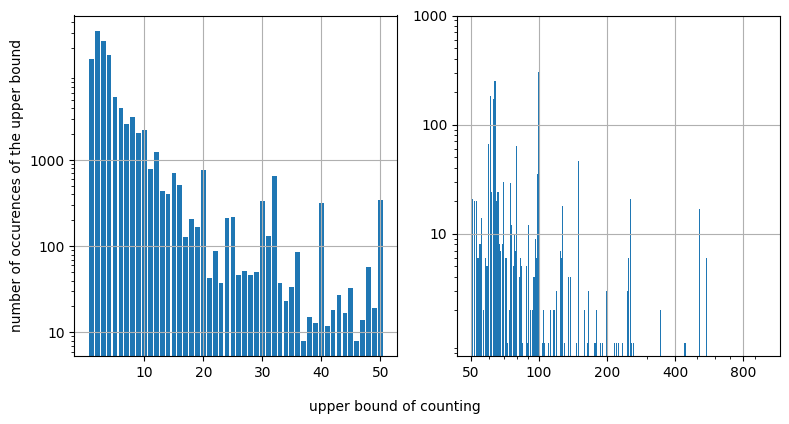
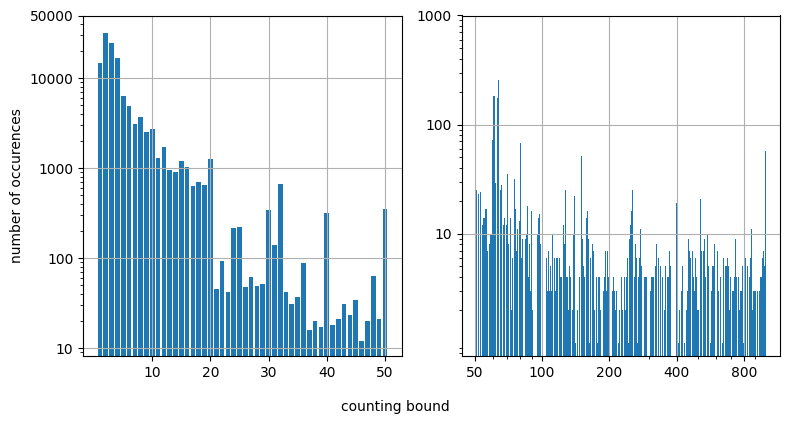
add some experiment results

diff --git a/2024-5-13/sections/implementation.tex b/2024-5-13/sections/implementation.tex
@@ -1,9 +1,10 @@
 %!TEX root = ../main.tex
 
-We implemented the algorithm in Section~\ref{sec:algorithm} on top of OSTRICH, resulted to a string solver called $\ostrichrecl$. 
+We implemented the algorithm in Section~\ref{sec:algorithm} and Section~\ref{sec:heuristic} on top of OSTRICH, resulted to a string solver called $\ostrichrecl$. 
 %
-In this section, we evaluate the performance of $\ostrichrecl$ on two benchmark suites, that is, RegCoL and AutomatArk. In the sequel, we first describe the two benchmark suites as well as the experiment setup. Then we present the experiment results. 
-We do experiments to compare the performance of $\ostrichrecl$ with the state-of-the-art string solvers. Moreover, in order to know whether $\ostrichrecl$ is good at solving string constraints with large counting and length bounds, we extract 1,969 instances with large bounds out of the two benchmark suites, and compare the performance of $\ostrichrecl$ with the other solvers on these instances. Finally, we empirically justify the technical choices made in the decision procedure of Section~\ref{subsec:cefadec} by comparing $\ostrichrecl$ with the following two variants of $\ostrichrecl$: $\ostrichrecl_{\rm - ASR}$ and $\ostrichrecl_{\rm NUXMV}$, where $\ostrichrecl_{\rm - ASR}$ and $\ostrichrecl_{\rm NUXMV}$ are obtained from $\ostrichrecl$ by removing the automata size-reduction technique (i.e. Step 2 in Section~\ref{subsec:cefadec}) and using the nuXmv model checker to solve the nonemptiness of $\cefadec$ respectively. 
+In this section, we evaluate the performance of $\ostrichrecl$ on three benchmark suites, that is, RegCoL, AutomatArk, and ComplexCounting. In the sequel, we first describe the three benchmark suites as well as the experiment setup. Then we present the experiment results. We evaluate the performance and correctness of our solver against the state-of-the-art string constraint solvers, including CVC5 \cite{cvc5}, Z3seq \cite{z3seq}, Z3str3 \cite{Z3-str3}, Z3str3RE \cite{BD+23}, and OSTRICH \cite{CHL+19}. We also compare $\ostrichrecl$ with two variants of it, that is, $\ostrichrecl_{\rm -ASR}$ and $\ostrichrecl_{\rm NUXMV}$, to justify the technical choices made in the decision procedure of Section~\ref{subsec:cefadec}.
+
+% We do experiments to compare the performance of $\ostrichrecl$ with the state-of-the-art string solvers. Moreover, in order to know whether $\ostrichrecl$ is good at solving string constraints with large counting and length, we extract \denghang{todo} instances with large bounds out of , and compare the performance of $\ostrichrecl$ with the other solvers on these instances. Finally, we empirically justify the technical choices made in the decision procedure of Section~\ref{subsec:cefadec} by comparing $\ostrichrecl$ with the following two variants of $\ostrichrecl$: $\ostrichrecl_{\rm - ASR}$ and $\ostrichrecl_{\rm NUXMV}$, where $\ostrichrecl_{\rm - ASR}$ and $\ostrichrecl_{\rm NUXMV}$ are obtained from $\ostrichrecl$ by removing the automata size-reduction technique (i.e. Step 2 in Section~\ref{subsec:cefadec}) and using the nuXmv model checker to solve the nonemptiness of $\cefadec$ respectively. 
  
 %including the results for an overall evaluation as well as the results on the benchmark instances with large bounds. Moreover, we do experiments to show the effectiveness of the automata size-reduction technique (i.e. Step 2 in Section~\ref{sec:algorithm}) as well as compare $\ostrichrecl$ with the  nuXmv-based approach in \cite{atva2020}.  
 
@@ -18,8 +19,7 @@ We do experiments to compare the performance of $\ostrichrecl$ with the state-of
 
 \subsection{Benchmark suites and experiment setup}\label{sec:bench}
 
-Our experiments utilize two benchmark suites, namely, \emph{RegCoL} and \emph{AutomatArk}. Other industrial benchmark suites are not utilized because they contain no counting operators. There are 48,843 instances in total, and all benchmark instances are in the SMTLIB2 format.
-Moreover, it turns out that only 5\% of regexes among the 48,843 instances are non-register-representable (see Section~\ref{subsec:regex2cefa}).
+Our experiments utilize two benchmark suites, namely, \emph{RegCoL} and \emph{AutomatArk}. Other industrial benchmark suites are not utilized because they contain no counting operators. There are \denghang{todo} instances in total, and all benchmark instances are in the SMTLIB2 format.
 
 \medskip
 \noindent
@@ -35,10 +35,14 @@ Note that the original AutomatArk benchmark suite \cite{z3str3re} includes 19,97
 
 \medskip
 \noindent
+\emph{ComplexCounting benchmark suite.} This benchmark suite is generated by the extension of \textsc{stringfuzz} \cite{stringfuzz}. We extend the \textsc{stringfuzz} tool with counting operators and generate 1,000 instances in which half of them contain complement on the counting operators and the other half contain nested counting. The length bound is set to $|x| > 50$ for each string variable $x$.
+
+\medskip
+\noindent
 \emph{Distribution of problem instances w.r.t. counting bounds. }
 The distribution of problem instances w.r.t. the counting bounds in RegCoL and AutomatArk suites is shown in Fig~\ref{fig:count_distri}, where the $x$-axis represents the counting bound and the $y$-axis represents the number of problem instances whose maximum counting bound is equal to the value of the $x$-axis. 
 %The upper bound is the number $n$ of regex $e^{\{m,n\}}, e^{\{n,n\}}$ and $e^{\{n,\infty\}}$ (which is equivalent to $e^{\{n,n\}}e^*$). 
-From Fig~\ref{fig:count_distri}, we can see that while most problem instances contain only small bounds, there are still around 2,000  (about 4\%) of them using large counting bounds (i.e. greater than or equal to $50$).
+From Fig~\ref{fig:count_distri}, we can see that while most problem instances contain only small bounds, there are still around 3,000  (about 6\%) of them using large counting bounds (i.e. greater than or equal to $50$).
 %Although most upper bounds are small, about two thousand of them are still greater than 50. 
 
 \medskip
@@ -48,24 +52,11 @@ All experiments are conducted on CentOS Stream release 8 with 4 Intel(R) Xeon(R)
 
 
 %
-\begin{figure}[ht]
-\vspace{-2mm}
-  \centering
-  \begin{subfigure}[t]{0.49\textwidth}
-    \centering\vskip 0pt
-    \includegraphics[width=0.9\textwidth]{counting_distribution.png}  
-    \caption{Distribution of problem instances w.r.t. counting bounds}  
-    \label{fig:count_distri}
-  \end{subfigure}
-  \hfill
-  \begin{subfigure}[t]{0.49\textwidth}
-    \centering\vskip 0pt
-      \import{tables}{table_regcol.tex}
-      \caption{Overall performance evaluation}
-    \label{fig:table_overall_eval}
-  \end{subfigure}
-  \caption{Distribution of counting bounds and performance evaluation}
-\vspace{-7mm}
+\begin{figure}
+  \centering\vskip 0pt
+  \includegraphics[width=0.9\textwidth]{counting_distribution.png}  
+  \caption{Distribution of problem instances w.r.t. counting bounds}  
+  \label{fig:count_distri}
 \end{figure}
 
 \subsection{Performance evaluation}\label{subsec:overall_eval}
@@ -73,53 +64,55 @@ All experiments are conducted on CentOS Stream release 8 with 4 Intel(R) Xeon(R)
 We evaluate the performance of $\ostrichrecl$ against the state-of-the-art string constraint solvers, including CVC5
 \cite{cvc5}, Z3seq \cite{z3seq}, Z3str3
 \cite{Z3-str3}, Z3str3RE \cite{BD+23}, and OSTRICH
-\cite{CHL+19}, on RegCoL and AutomatArk benchmark suites.
-The experiment results can be found in Figure~\ref{fig:table_overall_eval}. Note that we take the results of CVC5 as the ground truth\footnote{Initially,  we used the majority vote of the results of the solvers as the ground truth. Nevertheless, on some problem instances, all the results of the three solvers in the Z3 family are wrong (after manual inspection), thus failing this approach on these instances.}, and the results different from the ground truth are classified as \emph{soundness error}. We can see that $\ostrichrecl$ solves almost all 48,843 instances, except 182 of them, that is, it solves 48,662 instances correctly. The number is 3,908/1,111/12,838/2,306/2,396 more than the number of instances solved by CVC5/Z3str3RE/Z3str3/Z3seq/OSTRICH respectively.
+\cite{CHL+19}, on RegCoL, AutomatArk and ComplexCounting benchmark suites.
+The experiment results can be found in Figure~\ref{fig:table_overall_eval}. Note that we take the results of CVC5 as the ground truth\footnote{Initially,  we used the majority vote of the results of the solvers as the ground truth. Nevertheless, on some problem instances, all the results of the three solvers in the Z3 family are wrong (after manual inspection), thus failing this approach on these instances.}, and the results different from the ground truth are classified as \emph{soundness error}. We can see that $\ostrichrecl$ solves almost all \denghang{todo} instances, except 182 of them, that is, it solves 48,662 instances correctly. The number is 3,908/1,111/12,838/2,306/2,396 more than the number of instances solved by CVC5/Z3str3RE/Z3str3/Z3seq/OSTRICH respectively.
 %
 Moreover, $\ostrichrecl$ is the second fastest solver, whose average time on each instance is close to the fastest solver Z3str3RE (1.93s versus 1.62s). 
 
+\begin{table}
+  \centering\vskip 0pt
+    \import{tables}{table_regcol.tex}
+    \caption{Overall performance evaluation}
+  \label{fig:table_overall_eval}
+\end{table}
 %To answer \textbf{Q1}, \textbf{$\ostrichrecl$ is the second fastest solver on these benchmark suites, and it solves the most number of instances}.
 
-%
 
+% \subsection{Evaluation on problem instances with large bounds}\label{subsec:large_bounds_eval}
+% We extract \denghang{todo} problem instances with large sum of counting upper bounds (greater than or equal to $50$) from the three benchmark suites.  
+% Moreover, in order to test the performance of the solvers on string constraints with large length bounds as well, we increase the length bound to $50$, that is, $|x| > 50$.
 
-\subsection{Evaluation on problem instances with large bounds}\label{subsec:large_bounds_eval}
-
-We extract 1,969 problem instances with large counting bounds (greater than or equal to $50$) from the RegCoL and AutomatArk benchmark suites.  
-Moreover, in order to test the performance of the solvers on string constraints with large length bounds as well, we increase the length bound to $200$, that is, $|x| > 200$.
-
-We evaluate the performance of $\ostrichrecl$ on the 1,969 instances. 
-The experiment results can be found in Table~\ref{tab:large-bound}. We can see that $\ostrichrecl$ solves 1,873 instances correctly, which is 947/278/563/637/523 more than those solved by CVC5/Z3str3RE/Z3str3/Z3seq/OSTRICH respectively. Furthermore, $\ostrichrecl$ is 6.79/2.88/2.61/5.27/3.95 times faster than CVC5/Z3str3RE/ Z3str3/Z3seq/OSTRICH respectively. From the results, we can conclude that $\ostrichrecl$ is much more effective and efficient to solve the problem instances with large bounds than the other solvers.  
+% We evaluate the performance of $\ostrichrecl$ on the \denghang{todo} instances. 
+% The experiment results can be found in Table~\ref{tab:large-bound}. We can see that $\ostrichrecl$ solves 1,873 instances correctly, which is 947/278/563/637/523 more than those solved by CVC5/Z3str3RE/Z3str3/Z3seq/OSTRICH respectively. Furthermore, $\ostrichrecl$ is 6.79/2.88/2.61/5.27/3.95 times faster than CVC5/Z3str3RE/ Z3str3/Z3seq/OSTRICH respectively. From the results, we can conclude that $\ostrichrecl$ is much more effective and efficient to solve the problem instances with large bounds than the other solvers.  
 %To answer \textbf{Q1}, we can see that $\ostrichrecl$ \textbf{is far more efficient than the other solvers on problem instances with large bounds.}
 
-\begin{table}
-\vspace{-2mm}
-  \centering
-  \begin{subtable}{0.53\textwidth}
-      \centering
-    \import{tables}{table_large_count.tex}
-      \caption{Large bounds}
-      \label{tab:large-bound}
-  \end{subtable}
-  \begin{subtable}{0.45\textwidth}
-      \centering
-      \import{tables}{table_simp.tex}
-      \caption{Empirical justification of the technical choices in the decision procedure}
-      \label{tab:results_simp}
-  \end{subtable}
-  \caption{More experiment results, where the time limit is set as 60 seconds}
-\vspace{-8mm}
-\end{table}
+% \begin{table}[H]
+%   \import{tables}{table_large_count.tex}
+%   \caption{The performance of solvers on instances with large bounds}\label{tab:large-bound}
+% \end{table}
 
-
-\subsection{Empirical justification of the technical choices made in the decision procedure}\label{subsec:size_reduction_eval}
-%
+\subsection{Empirical justification of the technical choices and heuristics}\label{subsec:size_reduction_eval}
+We also do experiments to evaluate the effectiveness of the automata size-reduction techniques, that is, Step 2 in Section~\ref{subsec:cefadec}. Then we compare the performance of several heuristics in Section~\ref{sec:heuristic}.
+\subsubsection{Empirical justification of the technical choices}
 %We also do experiments to evaluate the effectiveness of the automata size-reduction techniques, that is, Step 2 in Section~\ref{subsec:cefadec}. 
 %Let us use $\ostrichrecl_{\rm -SIMP}$ to denote $\ostrichrecl$ with the size-reduction techniques removed. 
-We compare $\ostrichrecl$ with $\ostrichrecl_{\rm -ASR}$ and $\ostrichrecl_{\rm NUXMV}$, to justify the technical choices made in Section~\ref{subsec:cefadec}. 
+We compare $\ostrichrecl$ with $\ostrichrecl_{\rm -ASR}$ and $\ostrichrecl_{\rm NUXMV}$, where $\ostrichrecl_{\rm -ASR}$ is obtained from $\ostrichrecl$ by removing the automata size-reduction technique (i.e. Step 2 in Section~\ref{subsec:cefadec}), and $\ostrichrecl_{\rm NUXMV}$ is obtained from $\ostrichrecl$ by using the nuXmv model checker to solve the nonemptiness of $\cefadec$.
+
 The experiment results can be found in Table~\ref{tab:results_simp}. 
 We can see that $\ostrichrecl$ solves 1,503 more instances and is 2.21 times faster than $\ostrichrecl_{\rm -ASR}$. Therefore, the automata size-reduction technique indeed plays an essential role in the performance improvement. 
 %To answer \textbf{Q2}, \textbf{the size-reduction techniques indeed play a vital role in the performance improvement}. 
 Moreover, $\ostrichrecl$ solves 1,798 more instances and is 3.13 times faster than $\ostrichrecl_{\rm NUXMV}$. Therefore, the decision procedure in Section~\ref{subsec:cefadec} is more efficient to solve the $\cefadec$ problem than nuXmv. 
+\begin{table}[H]
+  \import{tables}{table_simp.tex}
+  \caption{Empirical justification of the technical choices in the decision procedure}\label{tab:results_simp}
+\end{table}
+
+\subsubsection{Empirical justification of the heuristics} We compare the performance of $\ostrichrecl$ with $\ostrichrecl_{\rm -NEST}$, $\ostrichrecl_{\rm -COMP}$, $\ostrichrecl_{\rm -FIND}$, and $\ostrichrecl_{\rm -ALL}$ where $\ostrichrecl_{\rm -NEST}$ is obtained from $\ostrichrecl$ by removing the heuristic for nested counting, $\ostrichrecl_{\rm -COMP}$ is obtained from $\ostrichrecl$ by removing the heuristic for complement on counting operators, $\ostrichrecl_{\rm -FIND}$ is obtained from $\ostrichrecl$ by removing the heuristic for finding the accepted word of the automaton, and $\ostrichrecl_{\rm -ALL}$ is obtained from $\ostrichrecl$ by removing all the heuristics.
+The experiment results can be found in Table~\ref{tab:results_heuristic}. 
+
+\begin{table}
+  \import{tables}{table_heuristics.tex}
+  \caption{Empirical justification of the heuristics}\label{tab:results_heuristic}
+\end{table}
 
 %To answer \textbf{Q3}, \textbf{our algorithm for solving the nonemptiness problem is much better than the \textsc{nuXmv}-based techniques}.

diff --git a/2024-5-13/sections/heuristic.tex b/2024-5-13/sections/heuristic.tex
@@ -95,8 +95,8 @@ $r$ is the register used to check whether the accepted state is also accepted in
    If each run makes the accepting condition $\alpha'(\myvec{\overline{v}'}/(R\cup\{r\}))$ false, then the negation of the accepting condition $\neg\alpha'(\myvec{\overline{v}'}/(R\cup\{r\}))$ is true. The negation can be rewriten to $(r=1\wedge \alpha)(\myvec{\overline{v}'}/(R\cup\{r\})) = (r=1)(\myvec{\overline{v}'}/(R\cup\{r\}))\wedge \alpha(\myvec{\overline{v}'}/(R\cup\{r\}))$. In our construction, only the transitions teminate at $f$ increase one to the value of $r$, so that the run must end at $f$ to make $r=1$ be true. $\alpha(\myvec{\overline{v}'}/(R\cup\{r\})) = \alpha(\myvec{v'}/R)$ is also need to be true, implying that the run is an accepting run of $\aut$.
 \end{proof}
 
-\subsection{Heuristic for Finding a Accepted Word in a Cost-enriched Automaton}
-In the section \ref{sec:algorithm}, we present an algorithm to solve the $\cefadec$ problem. The algorithm computes existential LIA formulas and then uses SMT solver to solve it. However, this procedure only anwser the question whether the language of the regex is empty or not. If the language is not empty, we need to find a word in the language in practice. In our preivous paper \cite{Denghang2023}, we do not explicitly present the algorithm to find a word in the language because of the space limitation. We have used a naive approach which randomly searching the CEFAs by the depth-first search, based on the regesiters values obtained from solving the existential LIA formula. However, this approach is not efficient. Suppose that there are $n$ registers whose values are $r_1,\cdots, r_n$ respectively in the CEFA, we may visit each transition $O(r_1*r_2\cdots *r_n)$ times during the search. To relieve this problem, we present a heuristic to find a word in the language as following algorithm.
+\subsection{Heuristic for Finding an Accepted Word}
+In the section \ref{sec:algorithm}, we present an algorithm to solve the $\cefadec$ problem. The algorithm computes existential LIA formulas and then uses SMT solver to solve it. However, this procedure only anwser the question whether the language of the regex is empty or not. If the language is not empty, we need to find a word in the language in practice. In our preivous paper \cite{Denghang2023}, we do not explicitly present the algorithm to find a word in the language because of the space limitation. We have used a naive approach which randomly searching the CEFAs by the depth-first search, based on the regesiters values obtained from solving the existential LIA formula. However, this approach is not efficient. Suppose that there are $n$ registers whose values are $r_1,\cdots, r_n$ respectively in the CEFA, we may visit each transition $O(r_1*r_2\cdots *r_n)$ times during the search. To relieve this problem, we present a heuristic to find a word in the language as follows.
 
 \medskip
 \noindent
@@ -109,9 +109,9 @@ $$ \sum \limits_{(q, a, q', \myvec{v})\in \delta} \eta((q, a, q', \myvec{v}))\my
 \noindent
 \emph{Step 2. (Prune the search tree early by the transitions times during the search process).}
 
-After computing the transitions times visited by the accepted string, we prune the search tree of the CEFA based on the transitions times. The idea is that we only visit transitions whose visited times are greater than $0$. Other transitions are deleted from the CEFA so that we can reduce the search space. Note that the transitions times is updated during the search process so the search space is reduced dynamically. The presudo code is presented in Algorithm \ref{alg:findword}.
+After computing the transitions times visited by the accepted string, we prune the search tree of the CEFA based on the transitions times. The idea is that we only visit transitions whose visited times are greater than $0$. Other transitions are deleted from the CEFA so that we can reduce the search space. Note that the transitions times is updated during the search process so the search space is reduced dynamically. The presudo code is presented in Algorithm~\ref{alg:findword}.
 
-\begin{algorithm}
+\begin{algorithm}[t]
   \caption{Find a word in the language of a CEFA}\label{alg:findword}
   \begin{algorithmic}[1]
   \Procedure{findmodel}{$\aut,tmap$}\Comment{$tmap$ maps transition to its visited times}

diff --git a/2024-5-13/main.tex b/2024-5-13/main.tex
@@ -20,6 +20,10 @@
 \definecolor{grayshade}{gray}{0.9}
 \usepackage{array} % Required for custom column formatting
 \usepackage[normalem]{ulem}
+
+\captionsetup[table]{skip=10pt} %
+
+
 % set algorithmicx
 \renewcommand{\algorithmicrequire}{\textbf{Input:}}  % Use Input in the format of Algorithm  
 \renewcommand{\algorithmicensure}{\textbf{Output:}} % Use Output in the format of Algorithm 
@@ -152,7 +156,7 @@ University of Chinese Academy of Sciences, Beijing, China \\
 %\vspace{-2mm}
 \input{sections/algorithms.tex}
 
-\section{Heuristics for Solving Complex RECL Constraints} \label{appendix:heuristic}
+\section{Heuristics for Complex RECL Constraints} \label{sec:heuristic}
 \input{sections/heuristic.tex}
 
 %\vspace{-2mm}
